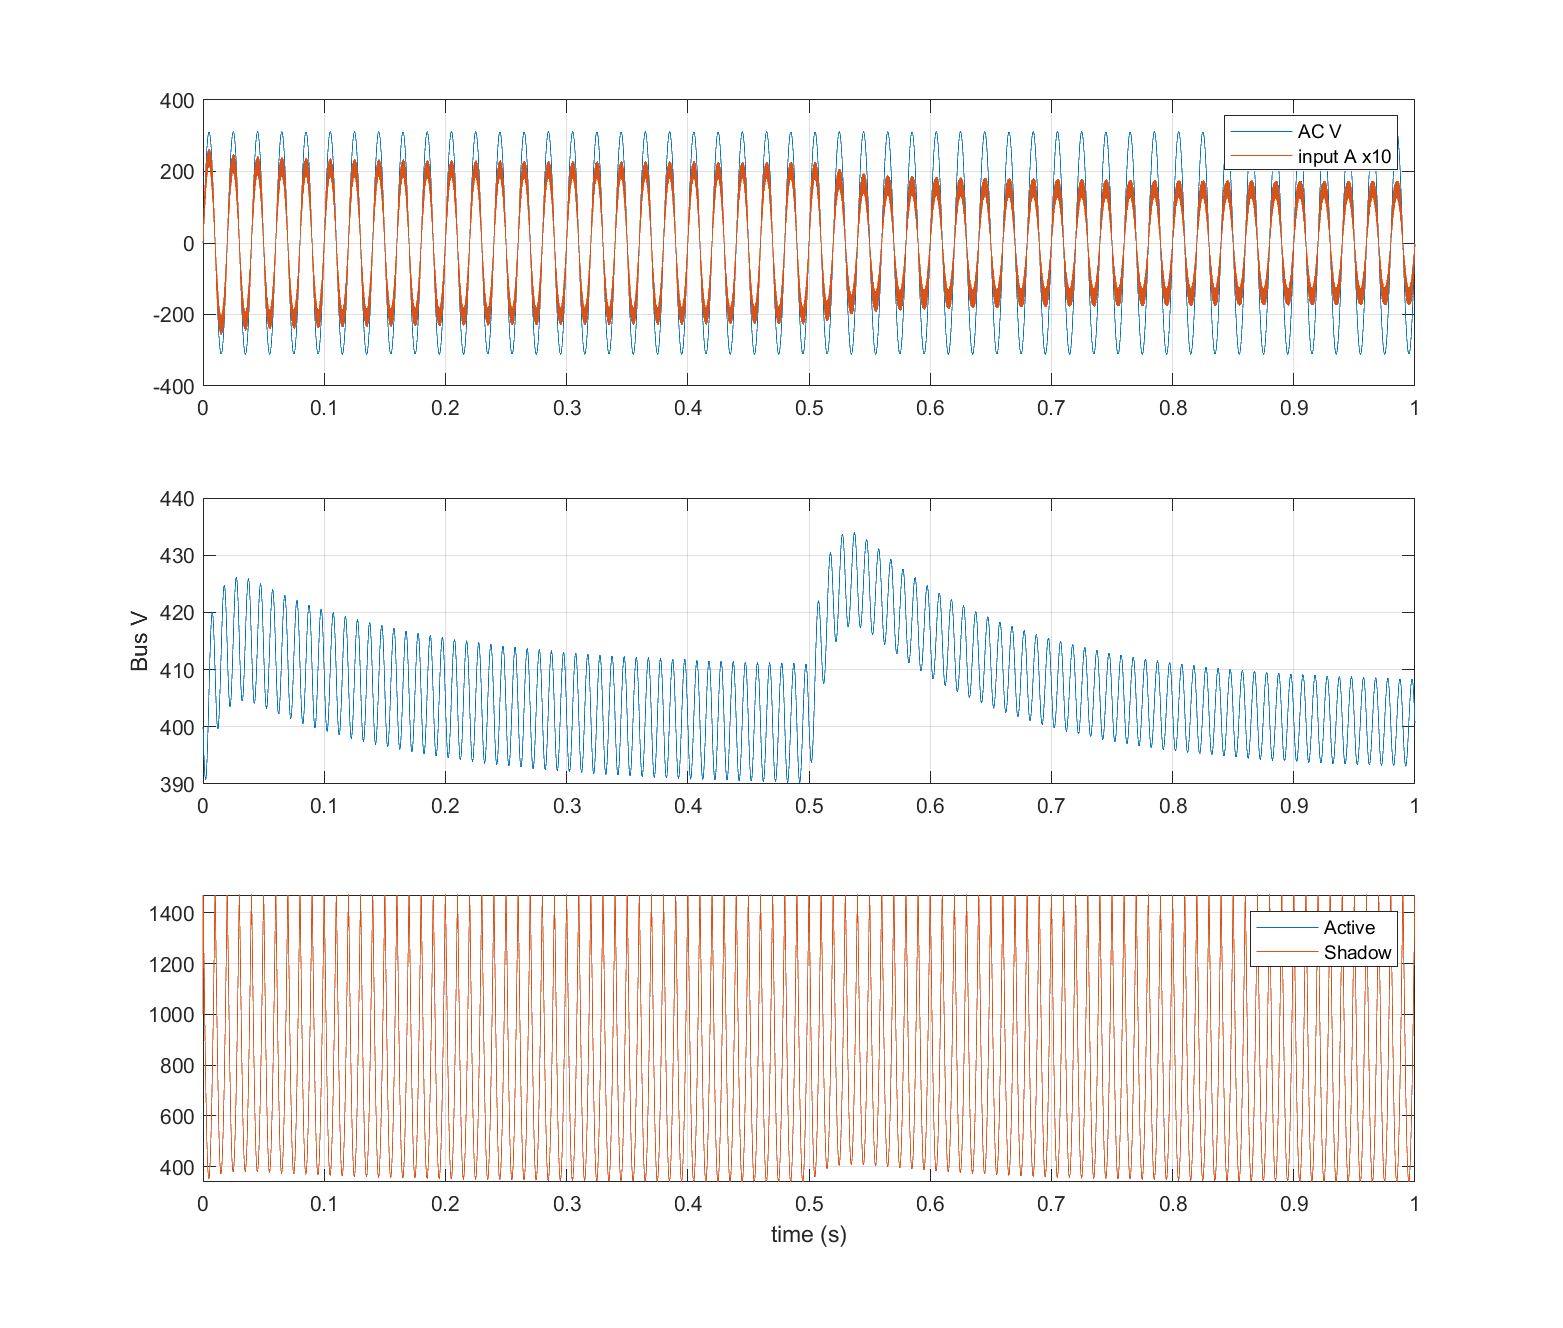
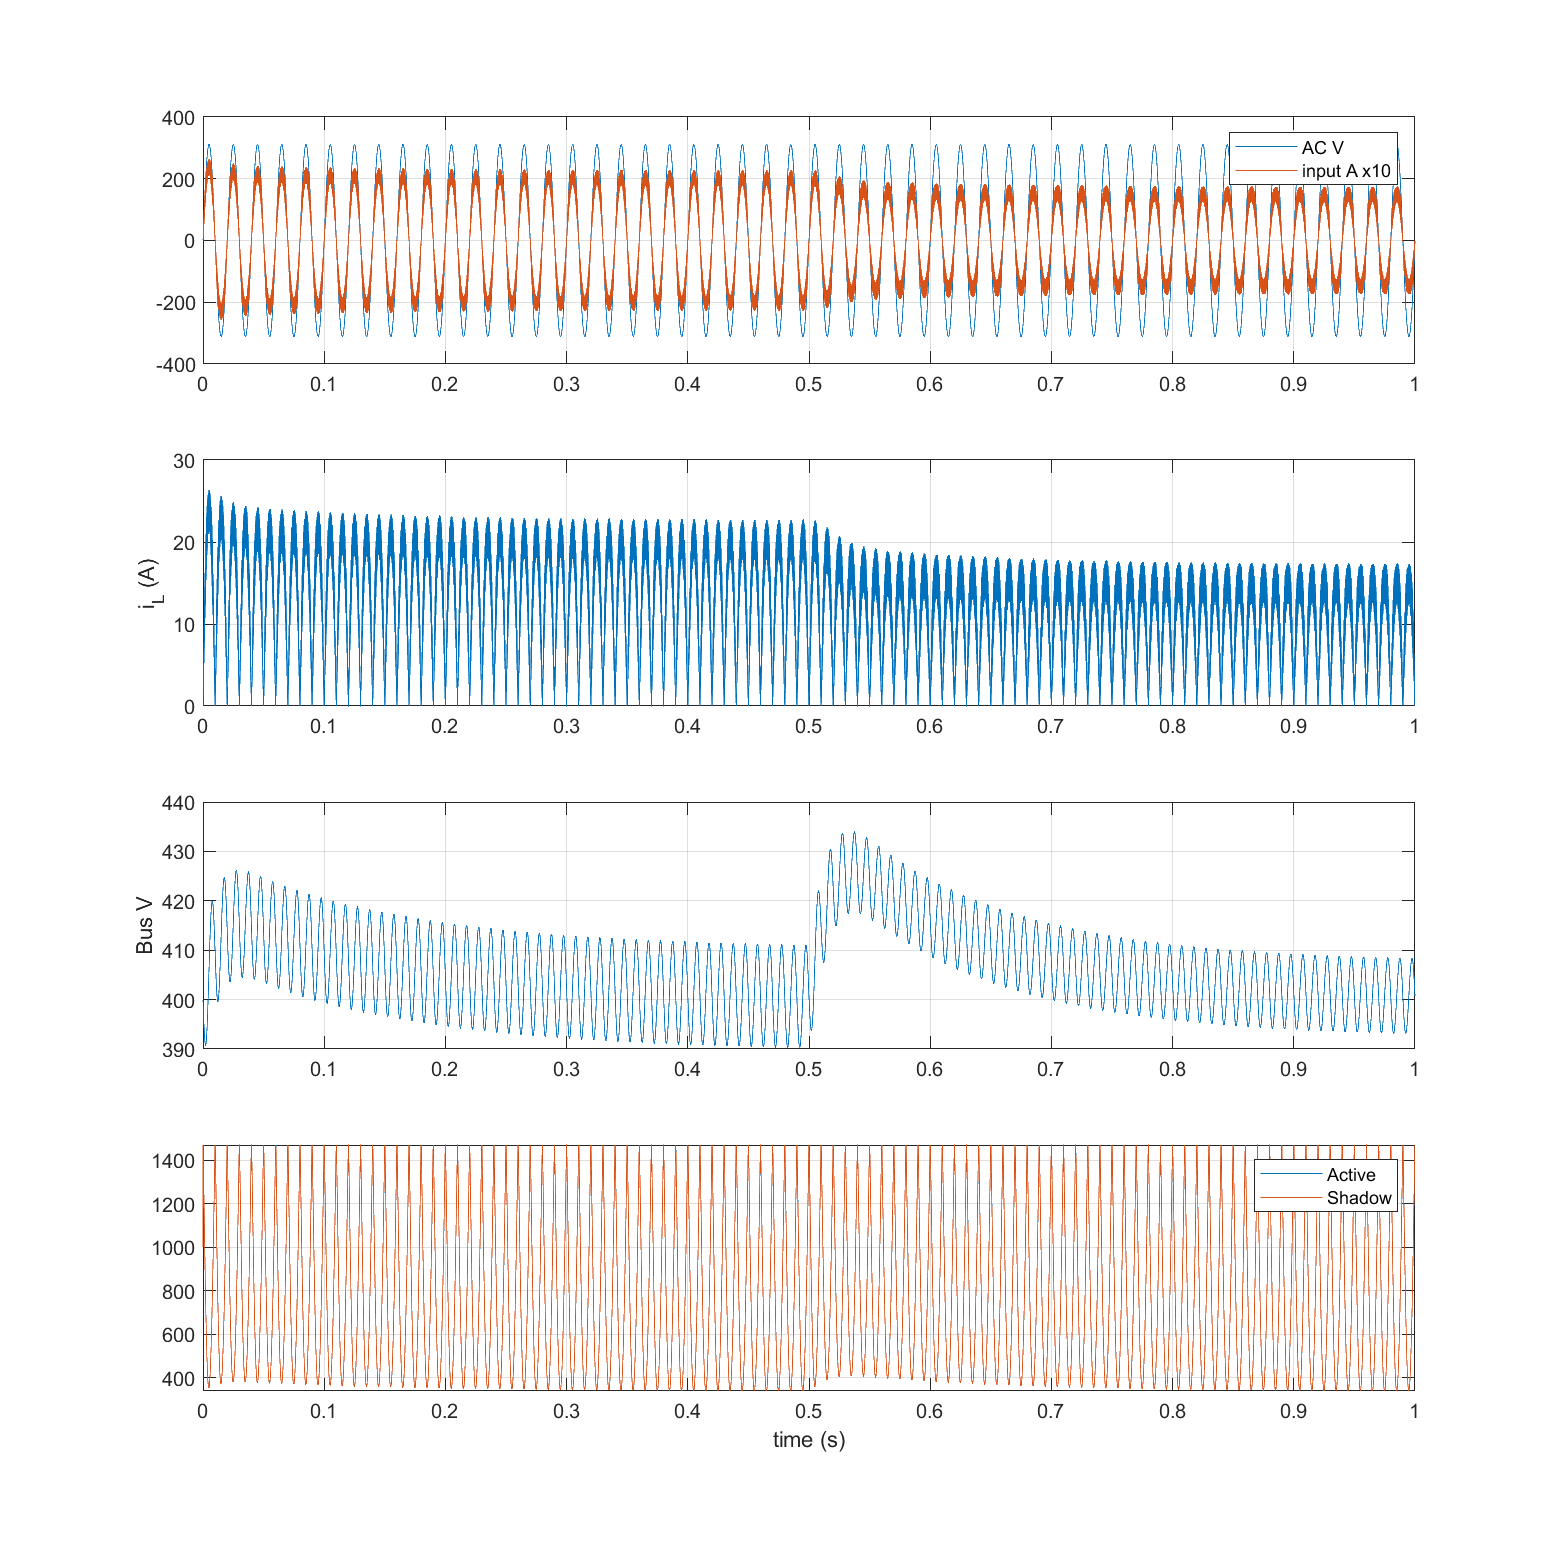
docs: expose inductor current and causal event timing in PFC plots
Regenerated steady, load-step and Trip figures in MATLAB from accepted saved traces and committed-event CSVs. Show physical iL separately and ZERO/SOCA/S&H/EOC/ISR/Shadow/Trip as timestamp rows. No model, controller or measured result changes; plot generation completed without errors.

Changed region(s): [[0.0921, 0.0617, 0.9213, 0.9571], [0.0921, 0.2779, 0.1228, 0.3087], [0.0921, 0.0617, 0.1228, 0.0926]]

diff --git a/matlab/plot_pfc.m b/matlab/plot_pfc.m
@@ -3,17 +3,28 @@ root=fileparts(fileparts(mfilename('fullpath')));folder=fullfile(root,'evidence'
 t=out.physical_trace.time;y=out.physical_trace.signals.values;
 % Downsample display only; metrics and saved traces retain full solver data.
 ix=1:max(1,floor(numel(t)/20000)):numel(t);
-f=figure('Visible','off','Position',[100 100 1000 850]);
-subplot(3,1,1);plot(t(ix),y(ix,1),t(ix),sign(y(ix,1)).*y(ix,3)*10);legend('AC V','input A x10');grid on;
-subplot(3,1,2);plot(t(ix),y(ix,4));ylabel('Bus V');grid on;
+f=figure('Visible','off','Position',[100 100 1000 1000]);
+subplot(4,1,1);plot(t(ix),y(ix,1),t(ix),sign(y(ix,1)).*y(ix,3)*10);legend('AC V','input A x10');grid on;
+subplot(4,1,2);plot(t(ix),y(ix,3));ylabel('i_L (A)');grid on;
+subplot(4,1,3);plot(t(ix),y(ix,4));ylabel('Bus V');grid on;
 d=out.digital_trace;id=1:max(1,floor(numel(d.time)/20000)):numel(d.time);
-subplot(3,1,3);plot(d.time(id),d.signals.values(id,[3 4]));legend('Active','Shadow');xlabel('time (s)');grid on;
+subplot(4,1,4);plot(d.time(id),d.signals.values(id,[3 4]));legend('Active','Shadow');xlabel('time (s)');grid on;
 saveas(f,fullfile(folder,[name '.png']));close(f);
 f=figure('Visible','off','Position',[100 100 1000 850]);
 if isfield(p,'focus_time'),focus=max(0,p.focus_time-20e-6);else,focus=min(p.duration-100e-6,0.104);end
 sel=d.time>focus & d.time<min(p.duration,focus+75e-6);
 subplot(3,1,1);stairs(d.time(sel)*1e6,d.signals.values(sel,1));ylabel('PWM');grid on;
 subplot(3,1,2);stairs(d.time(sel)*1e6,d.signals.values(sel,[3 4]));legend('Active','Shadow');grid on;
-subplot(3,1,3);stairs(d.time(sel)*1e6,d.signals.values(sel,[6 11 12 5]));legend('SOC count','ISR active','ISR count','Trip');grid on;
+% Event rows retain sub-microsecond ADC/ISR ordering; cumulative counters
+% would hide these transitions on the scale of a long-running simulation.
+events=readtable(fullfile(folder,[name '_events.csv']));
+kinds=[0 3 4 5 7 9 8 11 12];
+labels={'ZERO','SOCA','S&H','EOC','ISR entry','Shadow write','ISR exit','Trip','Clear'};
+subplot(3,1,3);hold on;
+for j=1:numel(kinds)
+ mask=events.kind==kinds(j) & events.time_s>=focus & events.time_s<=focus+75e-6;
+ plot(events.time_s(mask)*1e6,j*ones(sum(mask),1),'.','MarkerSize',10);
+end
+hold off;set(gca,'YTick',1:numel(kinds),'YTickLabel',labels);ylim([0 numel(kinds)+1]);grid on;
 xlabel('time (us)');saveas(f,fullfile(folder,[name '_timing.png']));close(f);
 end
